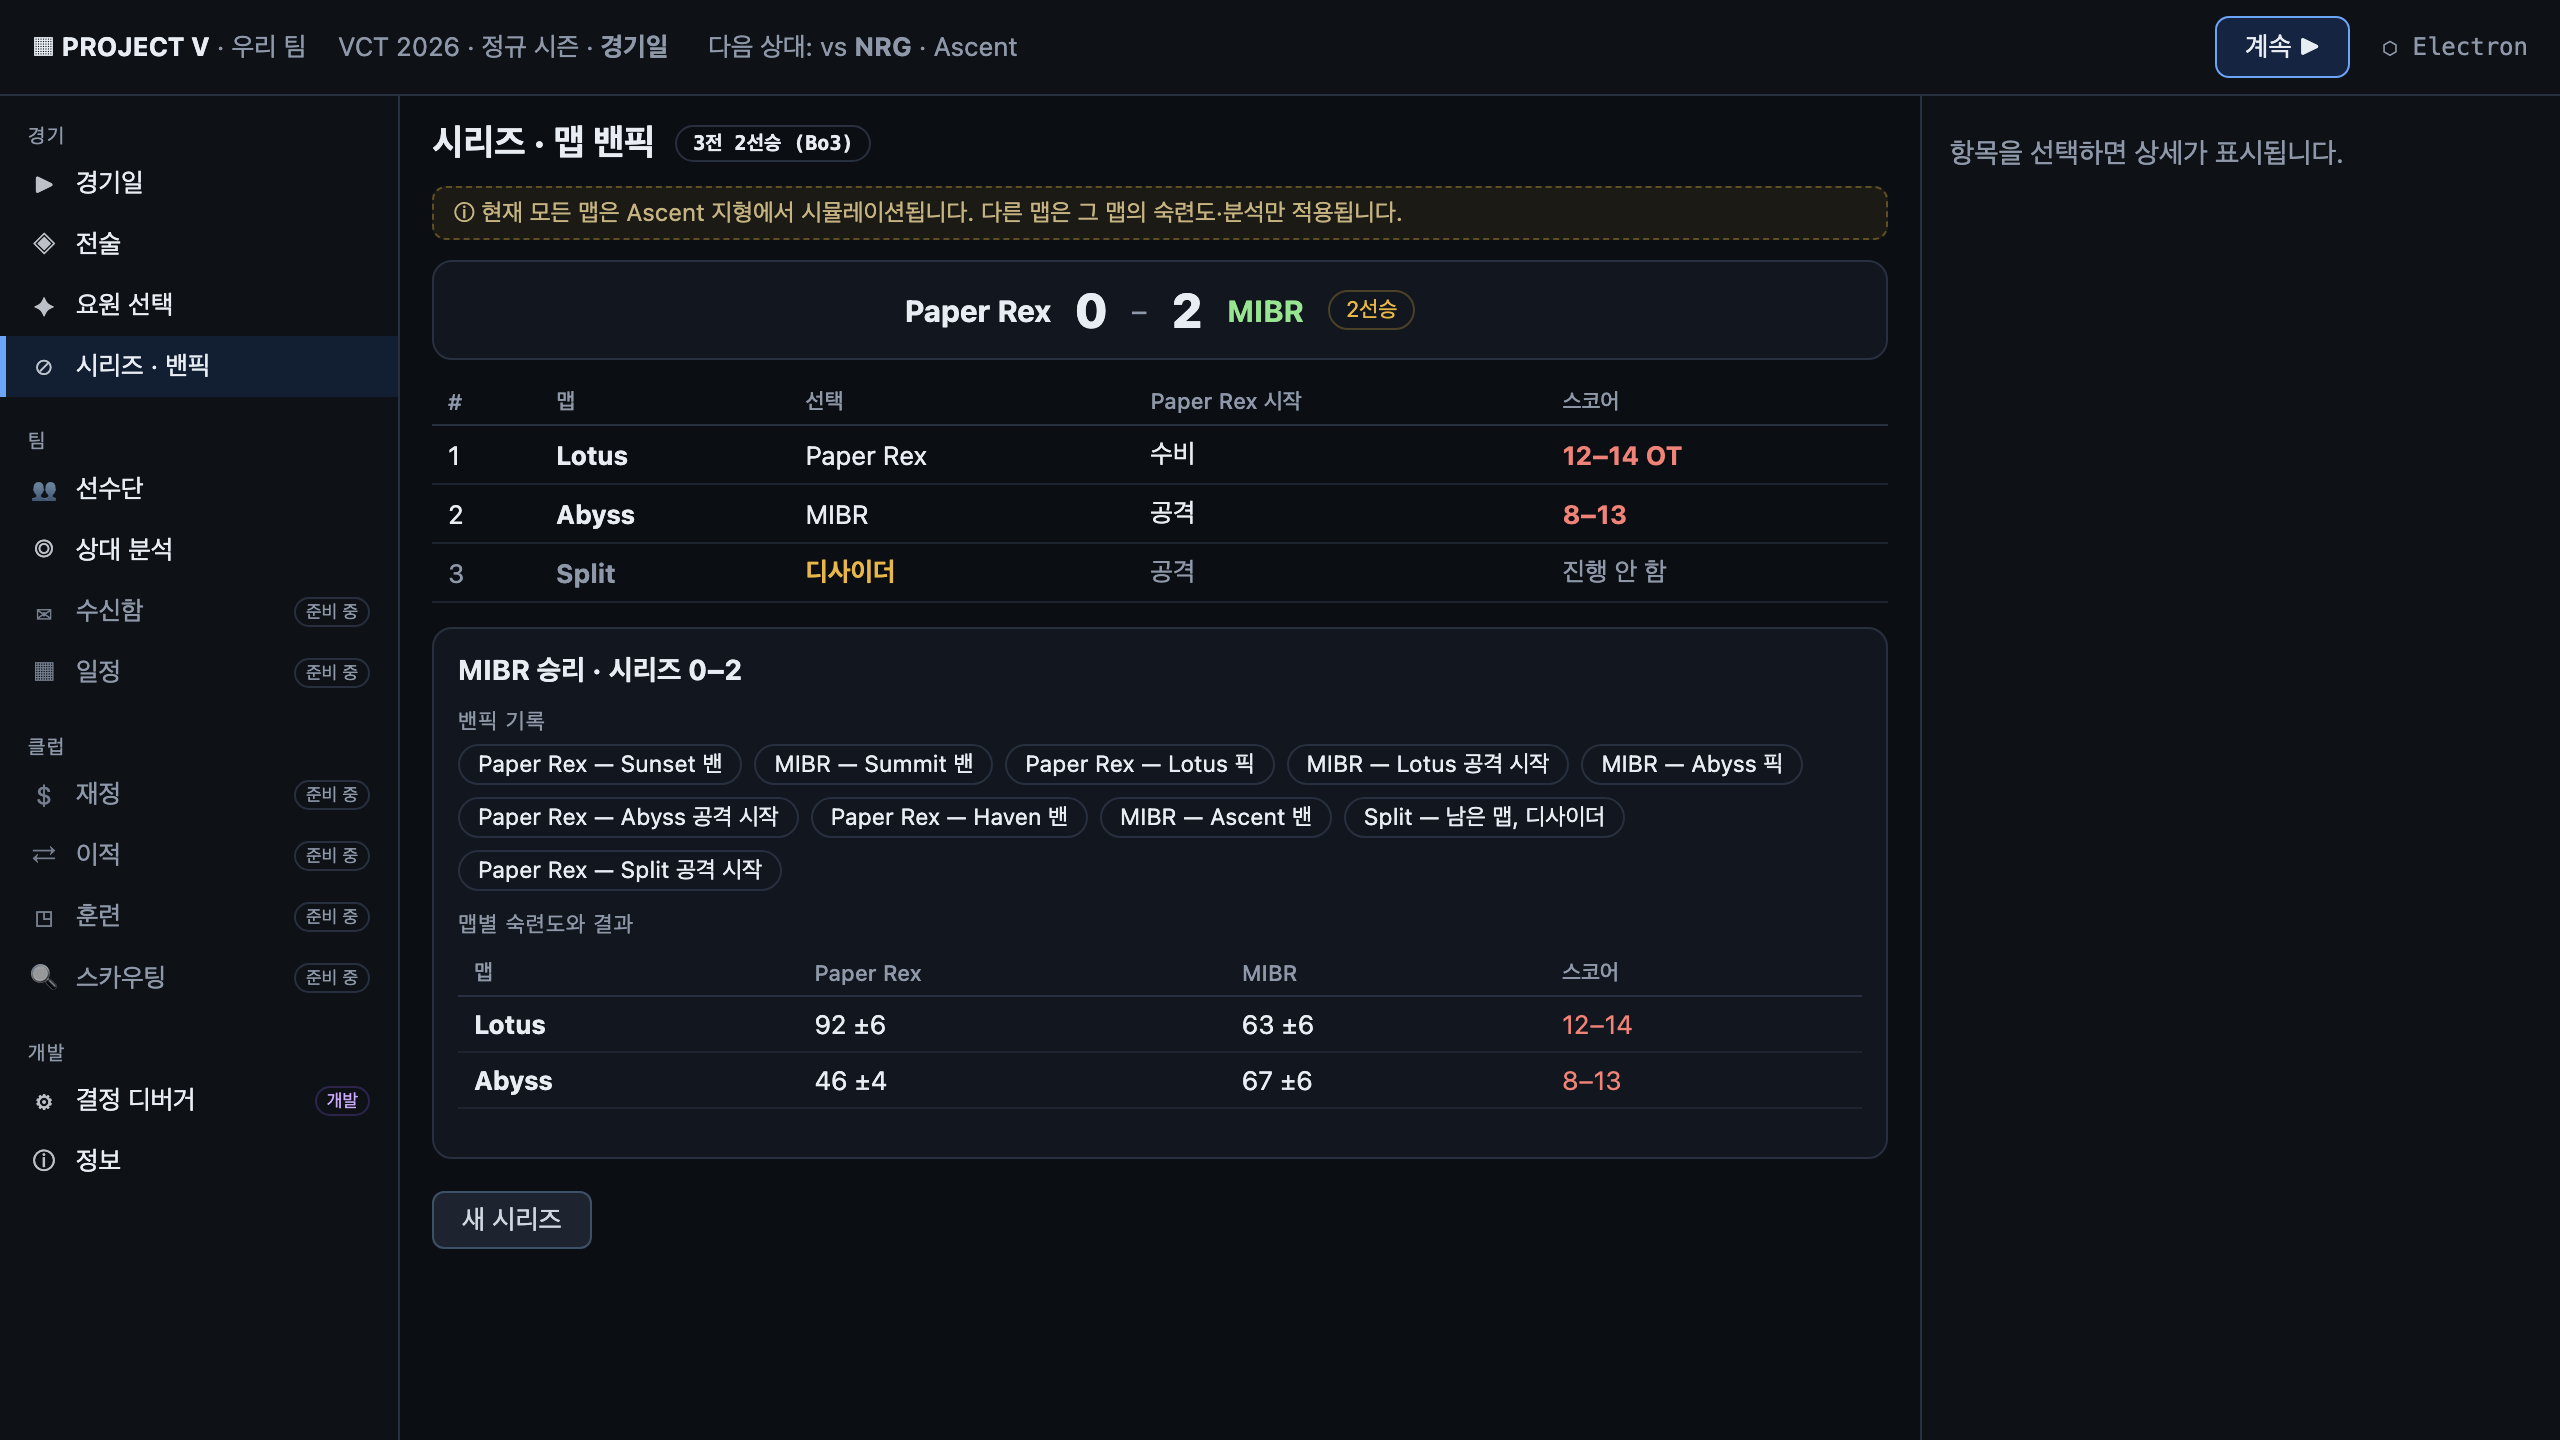
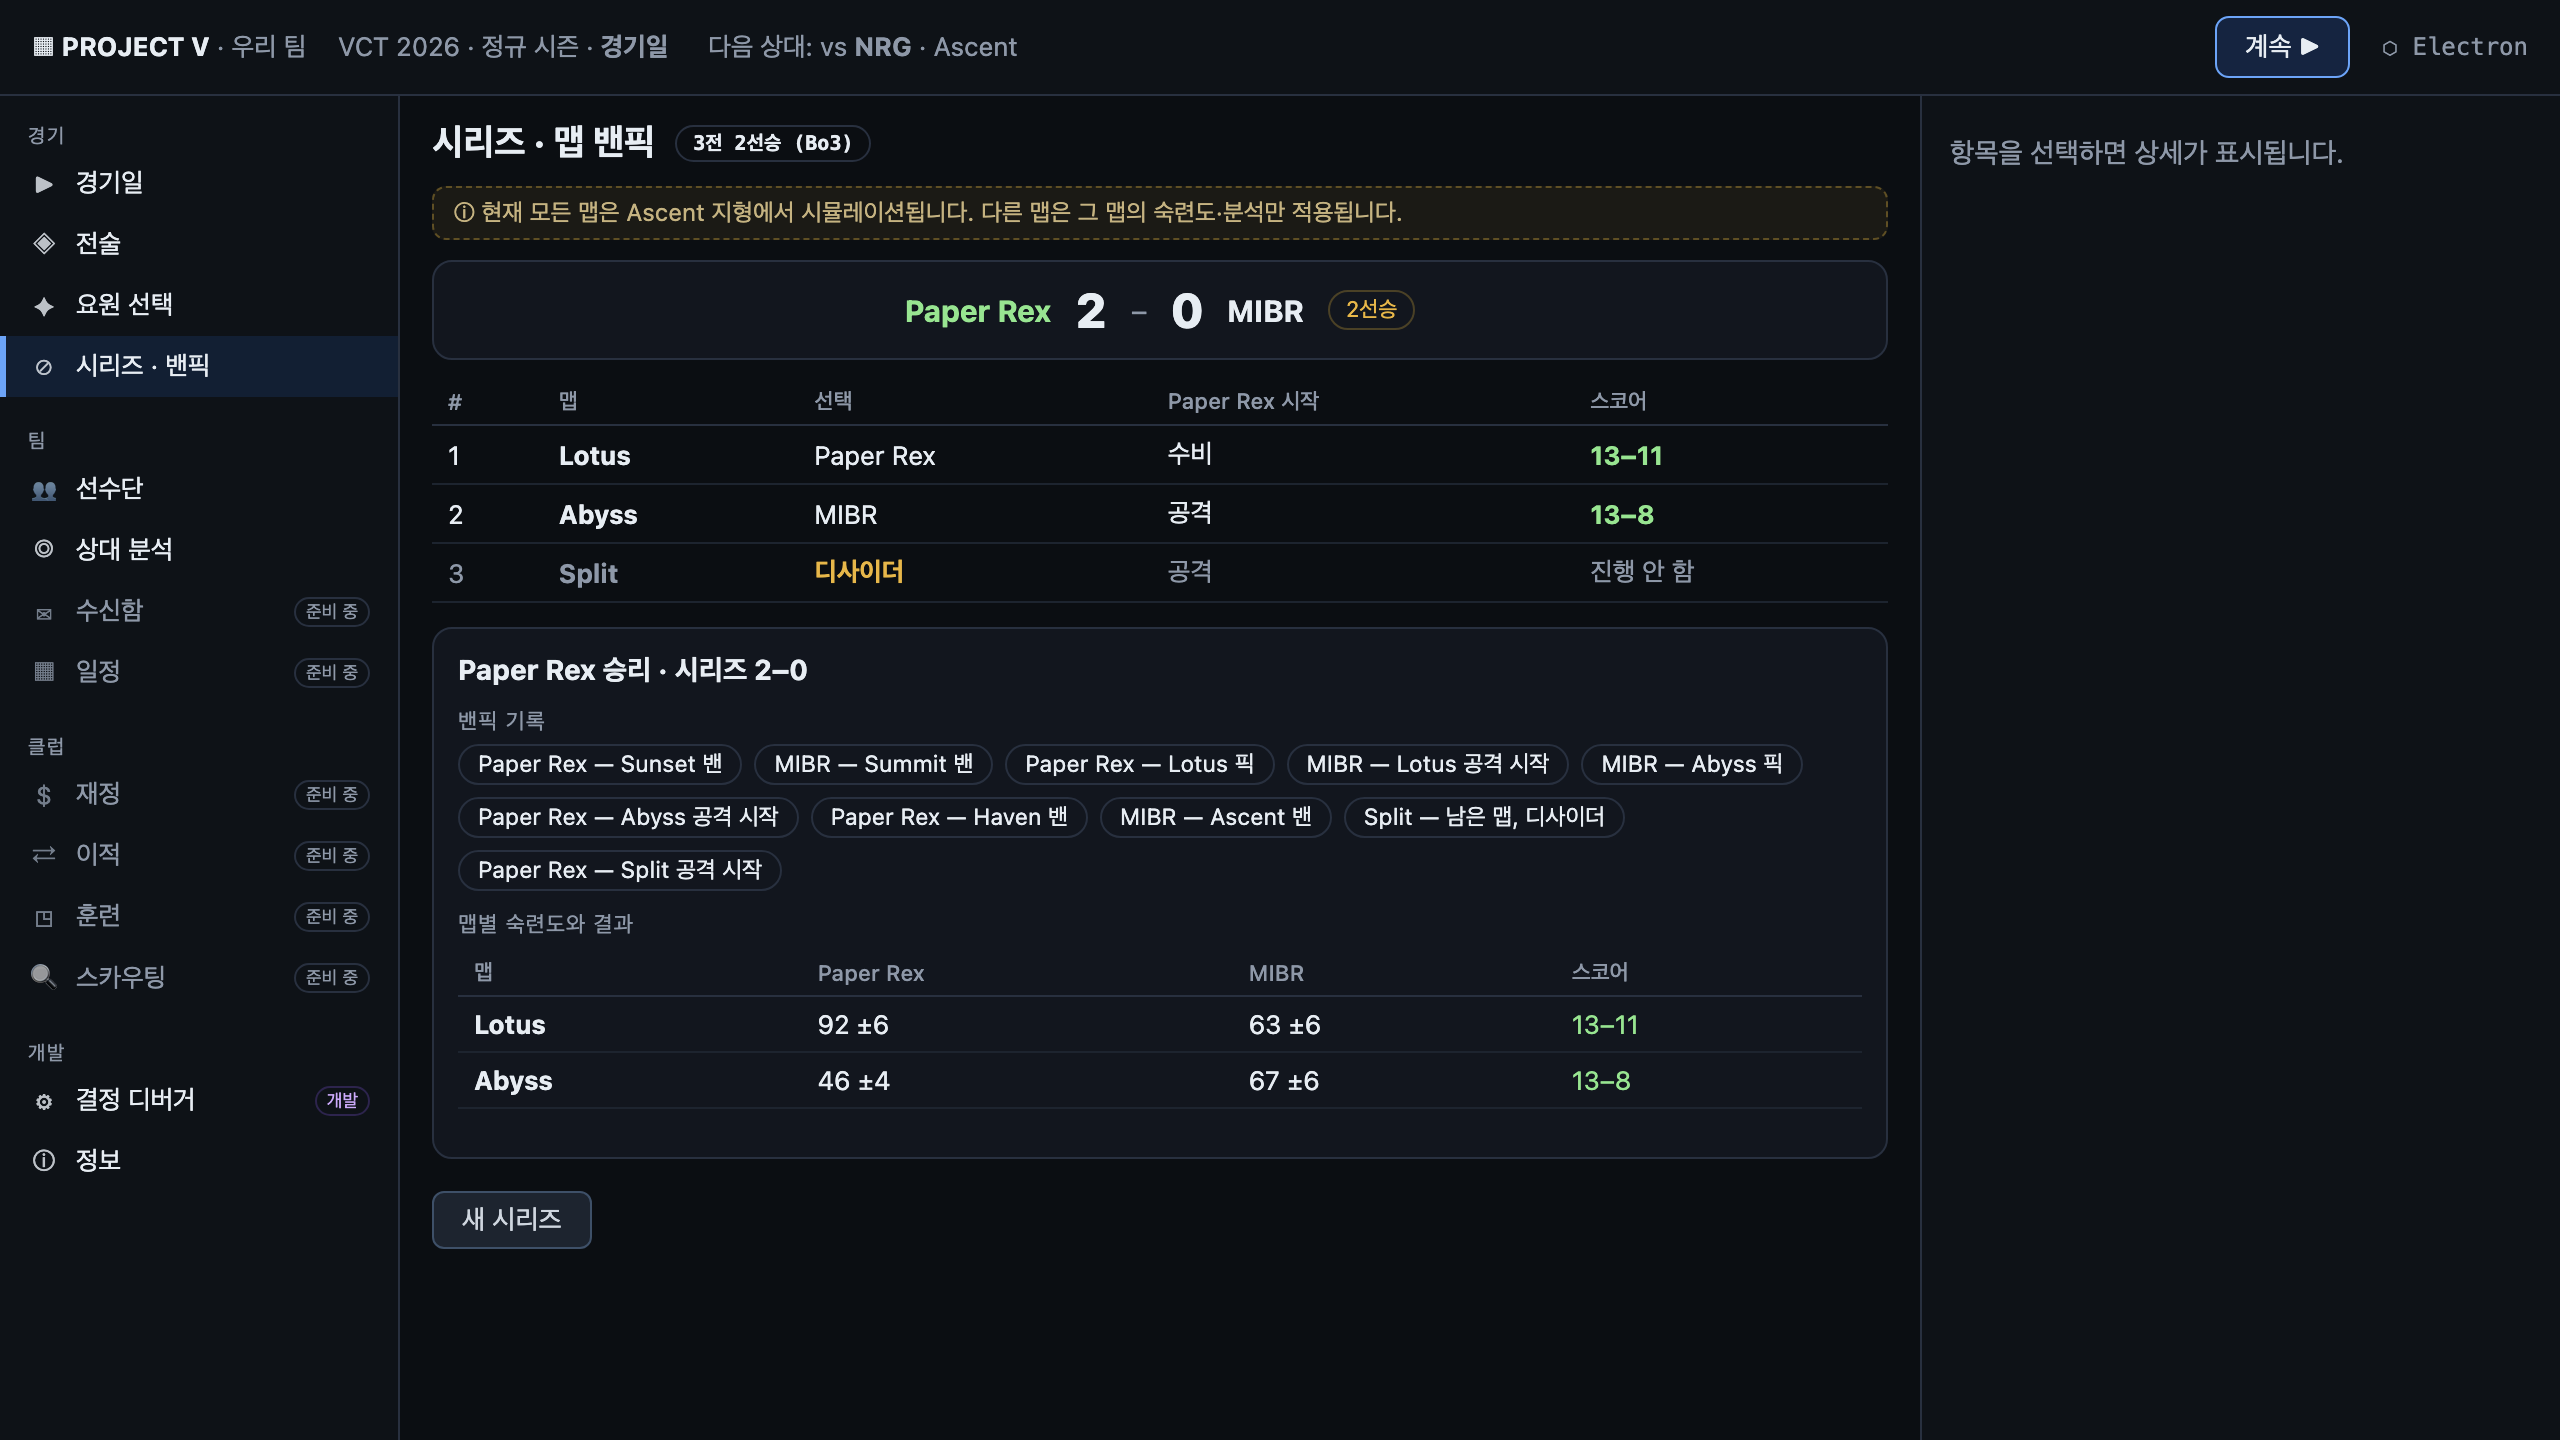
fix(desktop): series return reachable from the live match view; series e2e follows full-round playback
The live view replaced the setup screen, so the series' return button was unreachable after a map;
it is now also shown over the live view. The series e2e waited for the old setup-screen round dots;
it now waits for the live view's round chips. Screenshots regenerated by the e2e runs.

diff --git a/apps/desktop/src/renderer/screens/MatchDayScreen.tsx b/apps/desktop/src/renderer/screens/MatchDayScreen.tsx
@@ -119,6 +119,15 @@ export function MatchDayScreen({ ctx, series }: { ctx: ScreenCtx; series?: Match
   const liveAvailable = interactive ? sess.active : !!replay && source !== '';
   if (immersive && tab === 'match' && liveAvailable) {
     return (
+      <>
+      {/* [series] the live view replaces the setup screen, so the way back to the series lives here too */}
+      {series && (
+        <div className="ser-mdbanner ser-live" data-testid="series-md-banner-live"
+          style={{ position: 'fixed', bottom: 12, left: '50%', transform: 'translateX(-50%)', zIndex: 50 }}>
+          <b>{series.label}</b>
+          <button className="md-run" onClick={series.onReturn} disabled={running || sess.busy} data-testid="series-return">{series.returnLabel}</button>
+        </div>
+      )}
       <LiveMatch
         replay={interactive ? sess.replay : replay}
         match={matchForView}
@@ -135,6 +144,7 @@ export function MatchDayScreen({ ctx, series }: { ctx: ScreenCtx; series?: Match
         onExit={() => setImmersive(false)}
         onReview={matchForView ? () => { setImmersive(false); setTab('review'); } : null}
       />
+      </>
     );
   }
 
